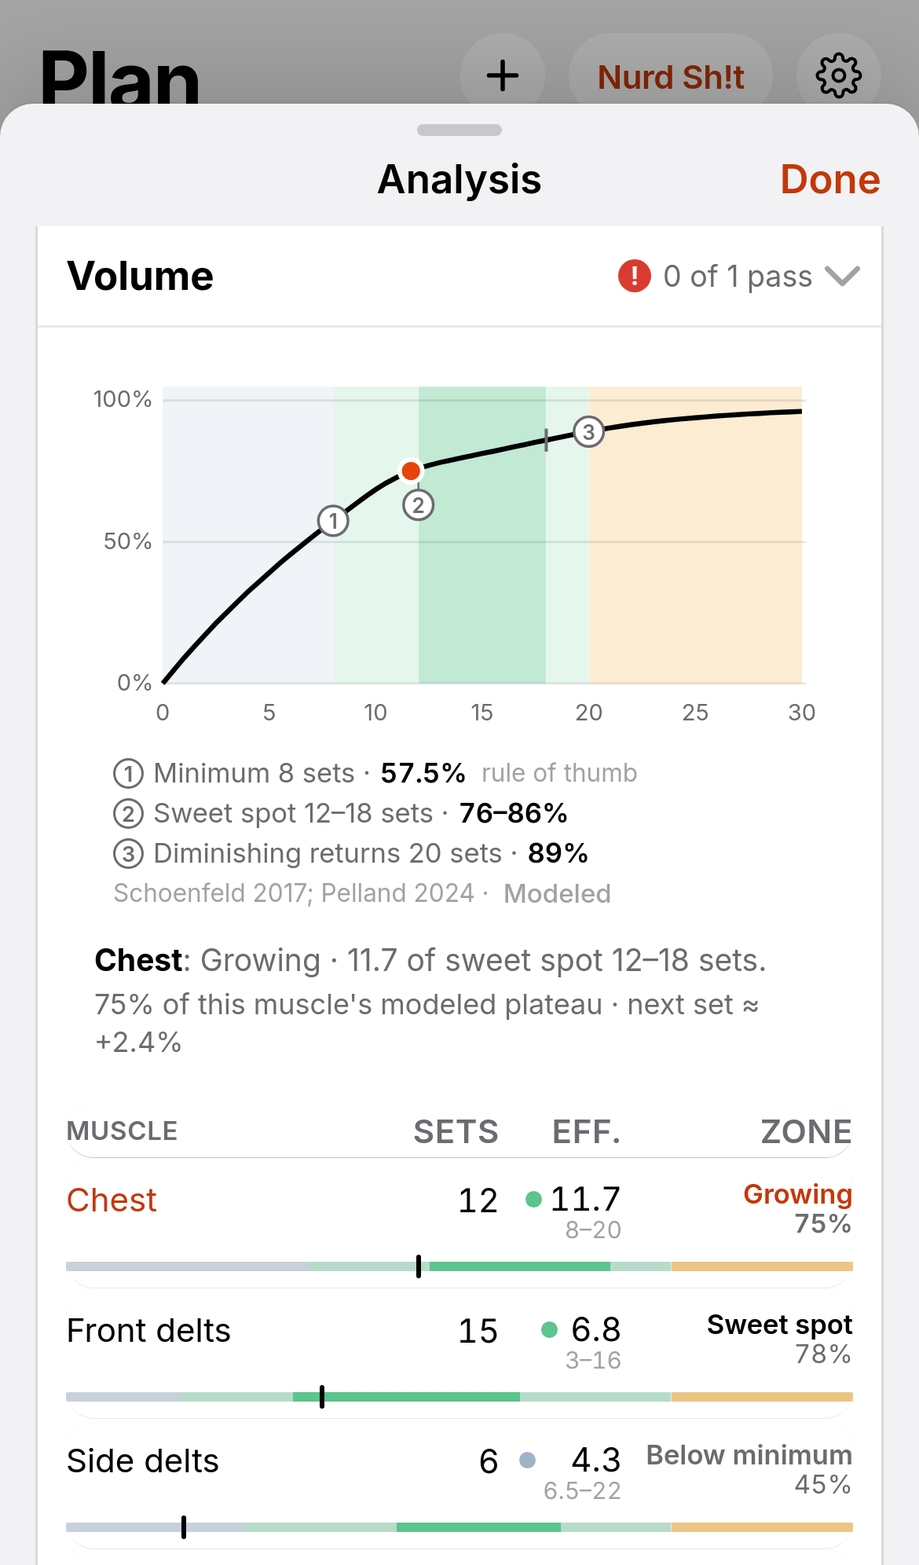
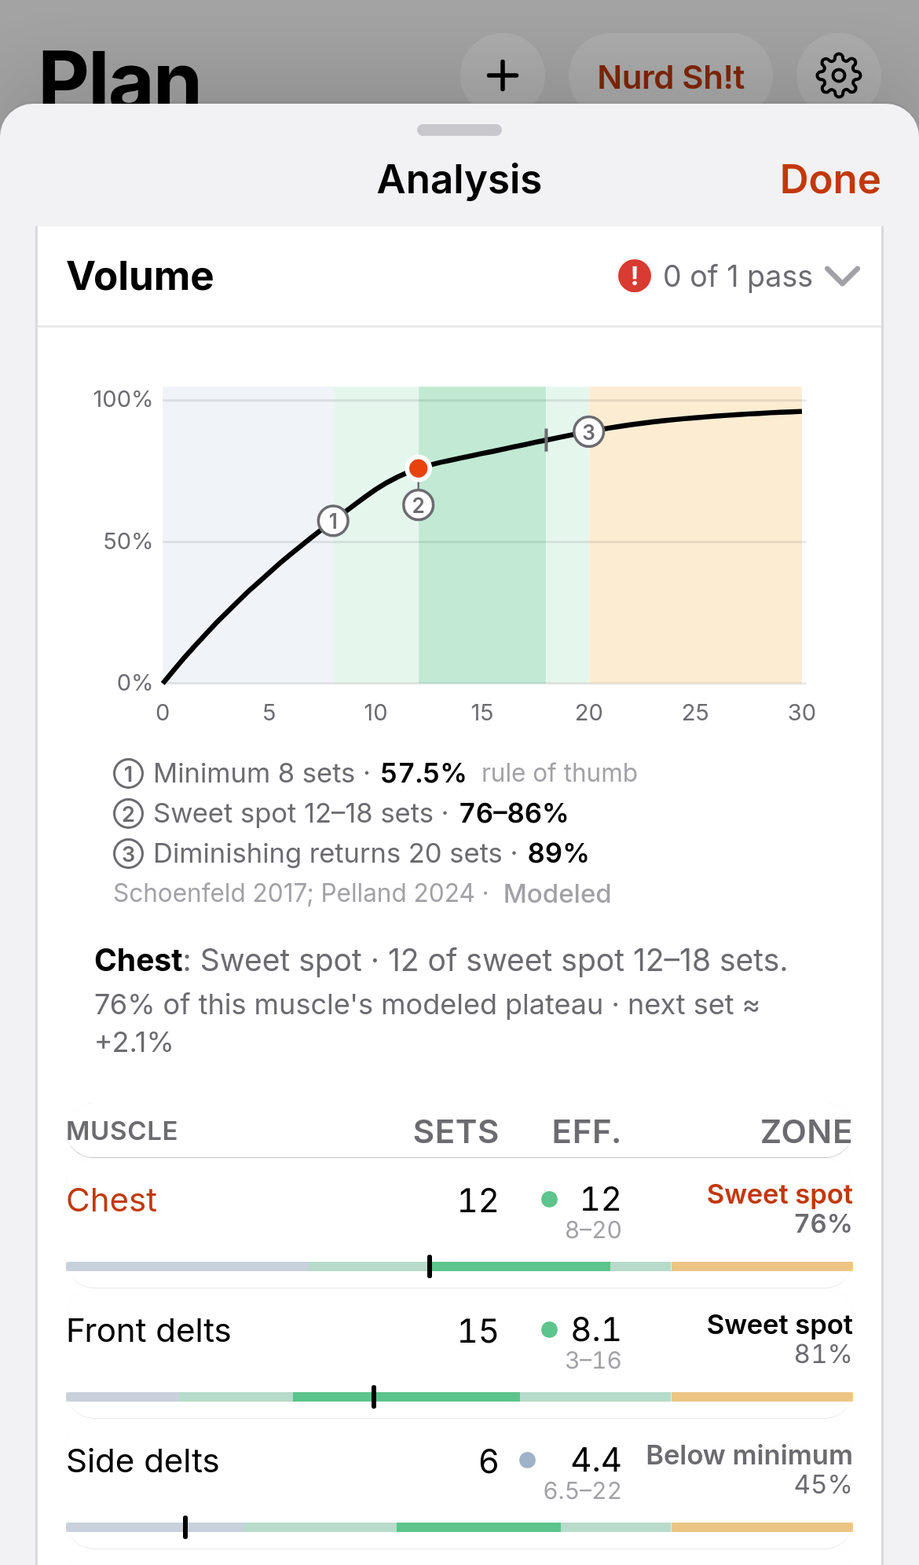
Storyboard vol9: face-value weekly volume (no per-set decay or cap in credited sets), session-efficiency info note past max(1+c,6), drop 12 vs 6+6 comparison

diff --git a/storyboard/logic/progcheck.js b/storyboard/logic/progcheck.js
@@ -49,6 +49,10 @@ const perSet=dt=>!!(dt.VM&&dt.VM.curve.session_discount&&dt.VM.curve.session_dis
 // CUR = the level of the last check/analytics call, used when a caller passes no level.
 let CUR='intermediate';const setLevel=l=>{if(l)CUR=l};
 const sdRule=dt=>((dt.rules&&dt.rules.rules)||[]).find(r=>r.id==='session_dose')||{};
+// vol9 (Mr Dude via CoS, supersedes the per-set credit discount): weekly volume = effective sets at face value (RIR /
+// secondary / minor multipliers kept). The per-set decay only feeds the informational session-efficiency note (session_dose
+// heavy) and the per-workout curve; it never changes a weekly number, zone, colour or %. Set FACE=false to restore vol8i.
+const FACE=true;
 const psC=(dt,m,lv)=>{const L=lv||CUR,cb=sdRule(dt).c_by_level||(dt.VM.session||{}).c_by_level;return (cb&&cb[L]&&cb[L][m])||(((dt.VM.session||{}).per_muscle||{})[m]||{}).c};
 // 'too heavy' for one workout = max(1 + c, heavy_floor_sets) (vol8i); 1 + c alone is the half-value point
 const heavyLim=(dt,m,lv)=>{const c=psC(dt,m,lv);return c?Math.max(1+c,sdRule(dt).heavy_floor_sets||0):null};
@@ -99,7 +103,7 @@ function slotCounts(dt,days){const {PJ}=ctx(dt),c={};for(const k in PJ.slots)c[k
   for(const d of days)for(const t of d.tiles){const e=dt.EX[t.id],hit=new Set();for(const s of e.patterns||[]){if(PJ.slots[s].kind==='compound'&&e.type==='isolation')continue;hit.add(s);(PJ.slots[s].counts_toward||[]).forEach(x=>hit.add(x))}hit.forEach(s=>c[s]+=1)}return c}
 function patternFlags(dt,days,level){const {PJ}=ctx(dt);if(!days.some(d=>d.tiles.length))return [];const c=slotCounts(dt,days),out=[];
   for(const [s,mn] of Object.entries(PJ.weekly_min_by_level[level])){if(mn<=0||c[s]>=mn)continue;out.push([c[s]===0&&PJ.required.includes(s)?'warn':'info','pattern_gap',s,c[s],mn])}return out}
-function col(dt,m,x,level){const {T,LF}=ctx(dt),a=pyR(T[m].min*LF[level]*2)/2,b=T[m].max;if(dt.VM&&!exactWarn(dt))x=r1(x);if(a<=x&&x<=b)return 'G';if((a-2<=x&&x<a)||(b<x&&x<=b*1.25))return 'A';return 'R'}
+function col(dt,m,x,level){const {T,LF}=ctx(dt),a=pyR(T[m].min*LF[level]*2)/2,b=T[m].max;if(dt.VM&&FACE)x=Math.round(x*100)/100;else if(dt.VM&&!exactWarn(dt))x=r1(x);if(a<=x&&x<=b)return 'G';if((a-2<=x&&x<a)||(b<x&&x<=b*1.25))return 'A';return 'R'}
 // days: [{day:'mon', tiles:[{id,sets}]}] (training days only, any order). Returns [flags, week]
 function check(dt,days,level){setLevel(level);const {R,RU,T,S,HEAVY}=ctx(dt),PAT=dt.PAT,f=[],week={},freq={},rawW={};for(const m in T){week[m]=0;freq[m]=0}
   let push=0,pull=0,spw=0;const byday={};days.forEach(d=>byday[d.day]=d);const HS=new Set(R.heavy_squats),HH=new Set(R.heavy_hinges);
@@ -112,7 +116,7 @@ function check(dt,days,level){setLevel(level);const {R,RU,T,S,HEAVY}=ctx(dt),PAT
       if(R.push_patterns.includes(p))push+=t.sets;if(R.pull_patterns.includes(p))pull+=t.sets}
     for(const [p,c] of pc){if(c<2)continue;const pv=eff(dt,d.tiles.filter(t=>(PAT[t.id]??null)===p));const over=Object.keys(pv).filter(m=>pv[m]>RU.redundant_pattern.threshold);
       if(over.length)f.push(['warn','redundant_pattern',d.day,p,c,over[0],pyR(pv[over[0]],1)])}
-    const v=eff(dt,d.tiles);for(const m in v){const x=v[m];week[m]+=dt.VM?sessCredit(dt,m,x):x;rawW[m]=(rawW[m]||0)+x;   // qc3009: weekly totals use the per-session credit (JS diverges from Coach's Python here, accepted)
+    const v=eff(dt,d.tiles);for(const m in v){const x=v[m];week[m]+=dt.VM&&!FACE?sessCredit(dt,m,x):x;rawW[m]=(rawW[m]||0)+x;   // qc3009: weekly totals use the per-session credit (JS diverges from Coach's Python here, accepted)
       if(x>=2)freq[m]+=1;if(x>10)f.push(['warn','junk_volume_session',d.day,m,pyR(x,1)])}
     const ids=new Set(d.tiles.map(t=>t.id));if(level==='beginner'&&[...ids].some(i=>HS.has(i))&&[...ids].some(i=>HH.has(i)))f.push([RU.beginner_squat_and_deadlift.severity||'warn','beginner_squat_and_deadlift',d.day])} // r2fix: severity from rules[]
   for(let i=0;i<6;i++){const dd=ORDER[i],a=byday[dd],b=byday[ORDER[i+1]];if(!(a&&b))continue;
@@ -124,7 +128,7 @@ function check(dt,days,level){setLevel(level);const {R,RU,T,S,HEAVY}=ctx(dt),PAT
   const all=new Set(days.flatMap(d=>d.tiles.map(t=>t.id)));
   for(const [m,ids] of Object.entries(R.stretch_biased))if(!ids.some(i=>all.has(i)))f.push([(RU.missing_stretch.check_muscles||[]).includes(m)?'warn':'info','missing_stretch',m]); // r2fix: stretch_check muscles warn
   for(const m of R.frequency_muscles)if(freq[m]<2&&days.length>=2)f.push(['info','low_frequency',m,freq[m]]);
-  if(perSet(dt)){for(const m in week)week[m]=Math.round(capW(dt,m,week[m],rawW[m]||0)*100)/100;f.push(...flags8(dt,days,level))}   // vol8b: weekly totals = x_equiv; CoS: zones/colours/warnings on this shown value
+  if(perSet(dt)){for(const m in week)week[m]=Math.round((FACE?(rawW[m]||0):capW(dt,m,week[m],rawW[m]||0))*100)/100;f.push(...flags8(dt,days,level))}   // vol8b: weekly totals = x_equiv; CoS: zones/colours/warnings on this shown value
   for(const m in week)if(col(dt,m,week[m],level)==='R')f.push(['warn','weekly_volume',m,pyR(week[m],1)]);
   f.push(...patternFlags(dt,days,level));return [f,week]}
 // ---------------- fixes (check_program.py v18) ----------------
@@ -258,7 +262,7 @@ function message(dt,f,days,level){const {R,RU,PJ}=ctx(dt),DN=R.day_names,id=f[1]
   if(id==='session_length'){const sp=sessP(dt,level);P.warn_min=sp.warn_min;P.info_min=sp.info_min;P.level=level} // vol3: messages carry {warn_min}/{info_min} from by_level[level]
   // vol8 flags: variants, {gap} in days, {ready} as a range, {limit} from the per-set curve (never exact hours)
   const dys=h=>{const v=h/24;return `${+v.toFixed(1)} day${v===1?'':'s'}`};
-  if(id==='session_dose'){P.limit=+(+heavyLim(dt,f[3])).toFixed(1);P.sets=+(+P.sets).toFixed(1);return fmtPy(f[4]==='heavy'?r.message_heavy:r.message_light,P)}
+  if(id==='session_dose'){P.limit=+(+heavyLim(dt,f[3])).toFixed(1);P.sets=+(+P.sets).toFixed(1);if(f[4]==='heavy'&&FACE)return `${P.muscle} gets ${fmtN(P.sets)} effective sets on ${P.day}, past about ${fmtN(P.limit)} for one session. Returns drop late in a long session for this muscle. Try splitting some sets onto another day, trimming a set or two, or swapping in a fresher exercise. This note doesn't change your weekly count.`;return fmtPy(f[4]==='heavy'?r.message_heavy:r.message_light,P)}
   if(id==='recovery_gap_long'){P.gap=dys(f[5]);return fmtPy(f[3]===f[4]&&r.message_once?r.message_once:r.message,P)}
   if(id==='recovery_overlap'){const R8=r;if(f[3]==='streak'){P.n=f[6];return fmtPy(r.message_streak,P)}P.gap=dys(f[6]);P.ready=f[7]?(h=>{h=h/(R8.early_frac_of_lower*0.8);if(h<20)return 'about a day';const lo=Math.floor(h*0.8/12)/2,hi=Math.ceil(h*1.2/12)/2;return (dt.VM.recovery.display.format||'about {lo}–{hi} days').replace('{lo}',String(lo)).replace('{hi}',String(hi))})(f[7]):'';return fmtPy(r.message_early,P)}
   let msg=r.message;if(id==='low_frequency'&&f[3]===0&&r.message_indirect_only)msg=r.message_indirect_only;else if(id==='spinal_load_week')msg=r.message_week||msg;else if(f[0]==='info'&&r.message_info)msg=r.message_info;
@@ -269,7 +273,7 @@ function shortLabel(dt,f){const id=f[1],r=dt.rules.rules.find(x=>x.id===RULE_OF(
   if(id==='spinal_load_session')k='session';else if(id==='spinal_load_week')k='week';
   else if(id==='push_pull_imbalance'&&(f[2]===0||f[2]===99))k=f[2]?'no_push':'no_pull';
   else if(id==='low_frequency'&&f[3]===0&&r.message_indirect_only)k='indirect_only';
-  else if(id==='session_dose')k=f[4];else if(id==='recovery_overlap')k=f[3];
+  else if(id==='session_dose'){if(f[4]==='heavy'&&FACE)return 'Session efficiency';k=f[4]}else if(id==='recovery_overlap')k=f[3];
   else if(id==='weekly_volume'){const T=ctx(dt).T[f[2]];k=T&&f[3]>T.max?'over':'under'}
   else if(f[0]==='info'&&r.severity!=='info')k='info';
   return (k&&V[k])||r.short_label||id}
@@ -282,8 +286,8 @@ function checks(dt,days,level){const [fl,week]=check(dt,days,level),rules=dt.rul
 function analytics(dt,days,level){setLevel(level);const TT=dt.targets,C=TT.curve,A=TT.analytics,{T,LF,RU,HEAVY}=ctx(dt),MUS=Object.keys(T),VM=!!dt.VM;
   const kOf=m=>(C.k_by_muscle&&C.k_by_muscle[m]&&C.k_by_muscle[m][level])||C.k[level],Sx=(x,k)=>1-Math.exp(-x/k),SD=C.session_discount,disc=(v,m)=>VM?sessCredit(dt,m,v):Math.min(v,SD.cap)+Math.max(0,v-SD.cap)*SD.factor;
   const perDay=days.map(d=>eff(dt,d.tiles)),muscles={};
-  for(const m of MUS){const rawx=perDay.reduce((a,v)=>a+v[m],0),xd=perDay.reduce((a,v)=>a+disc(v[m],m),0),x=VM&&perSet(dt)?capW(dt,m,xd,rawx):xd,freq=perDay.filter(v=>v[m]>=A.frequency_min_effective).length;
-    if(VM){const z=zones(dt,m,level);const xz=VM&&perSet(dt)?Math.round(x*100)/100:x;muscles[m]={raw:shown(dt,m,level,z,xz),raw_exact:x,raw_sets:rawx,x_dec:xd,x,zones:z,zone:zoneOf(z,xz),stim:stim(dt,m,level,x),next:stim(dt,m,level,x+1)-stim(dt,m,level,x),min:z.min,max:z.diminishing,freq};continue}
+  for(const m of MUS){const rawx=perDay.reduce((a,v)=>a+v[m],0),xd=perDay.reduce((a,v)=>a+disc(v[m],m),0),x=VM&&FACE?rawx:VM&&perSet(dt)?capW(dt,m,xd,rawx):xd,freq=perDay.filter(v=>v[m]>=A.frequency_min_effective).length;
+    if(VM){const z=zones(dt,m,level);const xz=VM&&(FACE||perSet(dt))?Math.round(x*100)/100:x;muscles[m]={raw:shown(dt,m,level,z,xz),raw_exact:x,raw_sets:rawx,x_dec:xd,x,zones:z,zone:zoneOf(z,xz),stim:stim(dt,m,level,x),next:stim(dt,m,level,x+1)-stim(dt,m,level,x),min:z.min,max:z.diminishing,freq};continue}
     const k=kOf(m),min=pyR(T[m].min*LF[level]*2)/2;
     muscles[m]={raw:rawx,x,k,stim:Sx(x,k),next:Sx(x+1,k)-Sx(x,k),min,max:T[m].max,freq}}
   const fat=e=>e.fatigue!=null?e.fatigue:(e.type==='isolation'?.8:1.2);
@@ -291,7 +295,8 @@ function analytics(dt,days,level){setLevel(level);const TT=dt.targets,C=TT.curve
   return {muscles,day,weekSets:days.reduce((a,d)=>a+total(d),0),weekMinutes:day.reduce((a,d)=>a+d.minutes,0),weekCost:day.reduce((a,d)=>a+d.cost,0),
     spinal:{week:day.reduce((a,d)=>a+d.spinal,0),week_max:RU.spinal_load.week_warn_above[level],session_max:RU.spinal_load.session_warn_above[level]},disclaimer:VM?dt.VM.disclaimer:A.disclaimer,curveModel:VM?dt.VM.curve.reads_as:C.model}}
 function anchors(dt,m,level){const CV=dt.VM.curve||{},P=(CV.per_muscle||{})[m];if(!P)return null;const A=(P.anchors_by_level&&P.anchors_by_level[level])||P.anchors;if(!A)return null;const lm=P.anchors_by_level?A.min:((P.level_min_pct||{})[level]||A.min);return {min:lm,sweet_low:A.sweet_low,sweet_high:A.sweet_high,dim:A.dim,basis:P.basis,ev:(P.min_evidence||{}).tag||null,fallback:(P.concave_fallback||{})[level]||null}}
-const API={anchors,heavyLim,setLevel,check,fixes,evaluate,message,checks,analytics,sessionMinutes,eff,credit,sessCredit,sessZones,perSet,gPS,xEquiv,sessZone8,capW,loadPoints,recHours,flags8,effortOf,axialOf,zones,stim,zoneOf,sessP,r05,r1,dRound,shown,flagKey,ORDER,shortLabel,ruleLabel,
+const fmtN=v=>{const n=+(+v).toFixed(1);return String(n)};
+const API={FACE,anchors,heavyLim,setLevel,check,fixes,evaluate,message,checks,analytics,sessionMinutes,eff,credit,sessCredit,sessZones,perSet,gPS,xEquiv,sessZone8,capW,loadPoints,recHours,flags8,effortOf,axialOf,zones,stim,zoneOf,sessP,r05,r1,dRound,shown,flagKey,ORDER,shortLabel,ruleLabel,
   // internals reused by logic/analysis.js and logic/progress.js (same functions, so the ports cannot drift)
   _x:{gAddSets,gAddExercise,gReduceSets,prev,nonin,_day,load,col,RULE_OF,total,ctx,clone,cmpT,sortBy,fmtPy}};
 if(typeof module!=='undefined'&&module.exports)module.exports=API;else root.PCHECK=API;

diff --git a/storyboard/board.js b/storyboard/board.js
@@ -445,23 +445,21 @@ function renderAnalysis(){if(!AN)return;const dt=RD(),{A,C,d}=stats(),R=dt.rules
     const yt=[0,Math.round(YM/2),YM],dd=d.map(D=>({day:D.day,s:PC.eff(dt,D.tiles)[cm]||0})).filter(o=>o.s>0);
     const svg=`<svg class="ancurve pwc" viewBox="0 0 ${W} ${H}" data-m="${cm}"><line x1="${px(0)}" y1="${py(0)}" x2="${px(Math.min(N,YM))}" y2="${py(Math.min(N,YM))}" class="pwid"/>${[0,4,8,12,16].map(q=>`<text x="${px(q)}" y="${H-10}" text-anchor="middle">${q}</text>`).join('')}${yt.map(q=>`<text x="26" y="${py(q)+3}" text-anchor="end">${q}</text>`).join('')}
       <path d="${pth}" class="cv"/>${dd.map(o=>{const q=Math.min(N,o.s);return `<circle cx="${px(q)}" cy="${py(g(q))}" r="4.5" class="dot"/><text x="${px(q)}" y="${py(g(q))-8}" text-anchor="middle" class="bl">${WD[DAYS.indexOf(o.day)]}</text>`}).join('')}</svg>`;
-    const over=[];d.forEach(D=>{const E=PC.eff(dt,D.tiles);for(const [m,v] of Object.entries(E)){const z=PC.sessZones(dt,m);if(z&&v>z.useful+0.05)over.push({m,day:D.day,v,c:PC.sessCredit(dt,m,v)})}});over.sort((a,b)=>(b.v-b.c)-(a.v-a.c));
-    const n=12,XE=(x,raw)=>Z.perSet?PC.capW(dt,cm,x,raw):x,one=XE(g(n),n),two=XE(2*g(n/2),n),zz=PC.zones(dt,cm,lv),row=(lab,x)=>{const sh=PC.shown(dt,cm,lv,zz,x);return `<div class="pwr"><span>${lab}</span><span class="num">counts as ${nfmt(sh)} · ${ZL(PC.zoneOf(zz,x))} ${Math.round(PC.stim(dt,cm,lv,x)*100)}%</span></div>`};
+    const over=[];d.forEach(D=>{const E=PC.eff(dt,D.tiles);for(const [m,v] of Object.entries(E)){const z=PC.sessZones(dt,m);if(z&&z.lim&&v>z.lim+1e-9)over.push({m,day:D.day,v,c:PC.sessCredit(dt,m,v)})}});   // vol9: session-efficiency note only past 'too heavy' = max(1 + c, 6)over.sort((a,b)=>(b.v-b.c)-(a.v-a.c));
     const SRC=((dt.VM.sources||{}).remmert2025session)||null;
     return `<div class="agfx pwv" data-metric="per_workout"><div class="ash"><span>Per workout: ${MLB(cm)}</span><span class="evl" data-ev="modeled">Modeled</span><span class="ashv num">too heavy past ${nfmt(Z.lim)} sets</span></div>
       <div class="curvec card curve">${svg}<div class="pwleg"><span><i class="pwk"></i>Workout stimulus</span><span><i class="pwk2"></i>If every set counted fully</span><span class="sub">sets in one workout</span></div>
       ${SRC?`<p class="pwsrc"><span class="evl" data-ev="modeled">Modeled</span> Curve shape from ${SRC.cite.split('(2025)')[0].split(',')[0]} et al. (2025), <a href="${SRC.url}" target="_blank" rel="noopener">per-session volume meta-regression</a>, a preprint (not peer-reviewed); the per-set rate is fitted to its anchors.</p>`:''}</div>
-      ${dd.length?`<div class="pwdays">${dd.map(o=>`<span><b>${WD[DAYS.indexOf(o.day)]}</b> ${nfmt(o.s)} sets → <span class="num">${nfmt(g(o.s))}</span></span>`).join('')}</div>`:''}
-      <div class="pwcase" data-m="${cm}" data-one="${one.toFixed(2)}" data-two="${two.toFixed(2)}">${row(`${n} sets in one workout`,one)}${row(`${n/2} + ${n/2} on two days`,two)}</div>
-      ${over.length?`<div class="pwover"><div class="ash"><span>Past the useful point this week</span><span class="ashv num">${over.length}</span></div>${over.slice(0,4).map(o=>`<div class="pwr">${mlk(o.m,'sets')}<span class="num">${WD[DAYS.indexOf(o.day)]} · ${nfmt(o.v)} sets → ${nfmt(o.c)}</span></div>`).join('')}</div>`:''}
-      ${wCards()}<p class="foot">Each extra set in the same workout is worth a bit less. Past ${nfmt(Z.lim)} sets in one workout counts as too heavy: each extra set earns under half of set 1. Resting until the next day starts the count again, so two days never score below one long workout. Tap a muscle in the table to chart it here.</p></div>`};
+      ${dd.length?`<div class="pwdays">${dd.map(o=>`<span><b>${WD[DAYS.indexOf(o.day)]}</b> <span class="num">${nfmt(o.s)}</span> sets</span>`).join('')}</div>`:''}
+      ${over.length?`<div class="pwover"><div class="ash"><span>Session efficiency</span><span class="evl" data-ev="info">Info</span><span class="ashv num">${over.length}</span></div>${over.slice(0,4).map(o=>`<div class="pwr">${mlk(o.m,'sets')}<span class="num">${WD[DAYS.indexOf(o.day)]} · ${nfmt(o.v)} sets in one session</span></div>`).join('')}<p class="pwtip">Returns drop late in a long session for these muscles. Try splitting some sets onto another day, trimming a set or two, or swapping in a fresher exercise.</p></div>`:''}
+      ${wCards()}<p class="foot">For session efficiency only: your weekly count takes every effective set at face value, so 12 sets in one day count as 12. Within one session each extra set gives a bit less, and past ${nfmt(Z.lim)} sets for this muscle returns drop late in the session. Tap a muscle in the table to chart it here.</p></div>`};
   // vol8 §10.7 per-workout cards: fatigue index bar (0-180, tick at 100 = typical upper day, tier bands) + up to 6 muscle bars
   // (length = effective sets that day, colour = workout zone, "+N% of weekly plateau", ready-in range). Numbers one decimal; never exact hours.
   const WK=dt.VM&&PC.perSet(dt)?dt.VM.workout:null;
   const wCards=()=>{if(!WK)return '';const AM=A.muscles,REF=WK.fatigue.reference.points,TI8=WK.fatigue.tiers,ZC={below_dose:'var(--line-strong)',useful:'var(--vol-in-range)',diminishing:'var(--vol-amber)',low_return:'var(--vol-red,#d4483b)'};
     const cards=d.filter(D=>D.tiles.length).map(D=>{const lp=PC.loadPoints(dt,D.tiles),li=Math.round(100*lp/REF),tier=TI8.find(t=>li>=t.from&&(t.to==null||li<t.to))||TI8[TI8.length-1],E=PC.eff(dt,D.tiles),H=ANL.sessionHours(dt,D.tiles,lv),hs=D.tiles.reduce((a,t)=>a+t.sets,0),mn=Math.round(PC.sessionMinutes(dt,D.tiles,lv));
       const ms=Object.entries(E).filter(([,v])=>v>=0.5).sort((a,b)=>b[1]-a[1]),top=ms.slice(0,6),mx=Math.max(6,...top.map(x=>x[1])),P180=v=>Math.min(100,v/180*100).toFixed(1);
-      const pay=m=>{const v=AM[m];return v&&v.x_dec?100*PC.stim(dt,m,lv,v.x)*PC.sessCredit(dt,m,E[m])/v.x_dec:0};
+      const pay=m=>{const v=AM[m];if(PC.FACE)return v&&v.raw_sets?100*PC.stim(dt,m,lv,v.x)*E[m]/v.raw_sets:0;return v&&v.x_dec?100*PC.stim(dt,m,lv,v.x)*PC.sessCredit(dt,m,E[m])/v.x_dec:0};   // vol9: face-value share
       return `<div class="wcard" data-day="${D.day}" data-li="${li}"><div class="wch"><b>${WDL[DAYS.indexOf(D.day)]}</b><span class="num">${hs} hard sets · about ${mn} min</span></div>
         <div class="wfat"><span class="wfl">Fatigue</span><span class="wfv num"><b>${li}</b> · ${tier.id.replace('_',' ')}</span></div>
         <div class="wfbar" aria-label="Fatigue ${li}, 100 = a typical upper-body day">${TI8.map(t=>`<i class="wft ${t.id}" style="left:${P180(t.from)}%;width:${(P180(t.to==null?180:t.to)-P180(t.from)).toFixed(1)}%"></i>`).join('')}<b style="width:${P180(li)}%"></b><em style="left:${P180(100)}%"></em></div>

diff --git a/storyboard/logic/muscledive.js b/storyboard/logic/muscledive.js
@@ -11,7 +11,7 @@ const pyR=RANK.pyRound,_r=(x,n=4)=>pyR(x,n),ORDER=PC.ORDER,DEFAULT_GOALS=['muscl
 const band=(dt,m,level)=>{const T=dt.targets.targets[m],LF=dt.targets.levelMinFactor;return [pyR(T.min*LF[level]*2)/2,T.max]};
 const S=(x,k)=>1-Math.exp(-x/k);
 function dayEff(dt,days,m){const o={};for(const d of days)if(d.tiles.length)o[d.day]=_r(PC.eff(dt,d.tiles)[m],4);return o}
-function curveX(dt,days,m){const sd=dt.targets.curve.session_discount;let x=0;for(const d of days){const v=d.tiles.length?PC.eff(dt,d.tiles)[m]:0;if(dt.VM){x+=PC.sessCredit(dt,m,v);continue}x+=v<=sd.cap?v:sd.cap+(v-sd.cap)*sd.factor}return x}
+function curveX(dt,days,m){const sd=dt.targets.curve.session_discount;let x=0;for(const d of days){const v=d.tiles.length?PC.eff(dt,d.tiles)[m]:0;if(dt.VM){x+=PC.FACE?v:PC.sessCredit(dt,m,v);continue}x+=v<=sd.cap?v:sd.cap+(v-sd.cap)*sd.factor}return x}
 function status(dt,m,x,level){const [lo]=band(dt,m,level),c=PC._x.col(dt,m,x,level);if(c==='G')return 'in_range';return c==='A'?(x<lo?'under':'over'):(x<lo?'far_under':'far_over')}
 // one muscle (or every muscle with m == null): {id, label, short_label, anchor, sets, curve, frequency, stretch, one_side_share,
 // recovery_cost, stimulus_per_fatigue, fatigue, contributors, suggestions:{apply, ranked_adds}}

diff --git a/storyboard/sb.css b/storyboard/sb.css
@@ -1620,3 +1620,4 @@ html[data-theme=dark] .pmom.gold .pm-txt .eyebrow{color:#FFD88F}
 .ancurve .anc line.anhi{stroke:var(--text-2);stroke-width:1.4}
 .ancl .anev{font-style:normal;font-size:10.5px;color:var(--text-3,#8a8a8a);margin-left:2px}
 .ancl .ansrc{flex-basis:100%;font-size:10.5px;color:var(--text-3,#8a8a8a);gap:6px}.ancl .ansrc .evl{margin-left:0}
+.pwtip{font-size:12.5px;color:var(--text-2);margin:4px 0 2px;line-height:1.35}

diff --git a/storyboard/ARCHITECTURE-web-storyboard.md b/storyboard/ARCHITECTURE-web-storyboard.md
@@ -534,3 +534,4 @@ The suite runs all three (`r3*` checks).
 - **Volume model vol8c (Oct 31, 2026, Coach / CoS):** targets.json and volume-model.json re-copied; splits.json HELD at 204cdfbc (CoS: Coach's 12 preset rebalances not taken). Weekly value = `PC.capW` = min(x_equiv, raw weekly effective sets); the % uses it exactly, zones/colours/weekly_volume warnings compare it rounded to 0.01 (check_program.py capped_week), and the shown number (`PC.shown`, one decimal, boundary-nudged) is the same value everywhere. Swap records: before/after stay raw (0.5 display), zones, `weekly_value_*` and crosses_below_min use the capped value. recovery_overlap early = [gap h, threshold h, short by h]. My average = per-set fatigue sum (type_base × axial × effort at the logged RIR), same scale as the benchmarks. With the held splits, 12 of 46 presets give weekly_volume warnings.
 - **Volume model vol8d + vol8e (Oct 31, 2026, Coach / CoS):** rules.json (f8af40b1), targets.json (7acd54bf) and volume-model.json (47d24358) re-copied for vol8d's softened per-set decay (c = 1.0 × heavy anchor, chest 10; session_dose heavy above 1 + c sets); splits.json copied at vol8e (344dc346: CoS-approved leg-extension 4→5 on PPL adv 3 Fri, PPLU adv 4 Thu, Arnold adv 3 Fri). Cap, 0.01 boundary rounding, % mapping and number/zone/colour agreement unchanged. References: workout-reference 261/261, volume-model-reference swaps 27/27, credit-at-n 304/304 (vol5_history not checked). 4 of 46 presets warn for real low volume (FB int 2, FB adv 2, UL int 2, torso-limbs int 2). CoS curve anchors: each muscle's weekly curve (board.js `curve()`) marks minimum, sweet spot start and diminishing returns start with numbered marks plus a legend row (`.ancl`) giving the stimulus % at each edge from `PC.stim` (same mapping as the curve), tagged Modeled; computed from Coach's model since the data has no official anchors field yet (targets.anchors is the legacy exponential-curve 60% note and is not used). Marks that would crowd a neighbour or the week's dot drop below the curve. Shots 81a, 81b, 81c-curve-anchors.
 - **Volume model vol8g–vol8i (Oct 31, 2026, Coach / CoS):** rules.json (b83c462a), targets.json (8e7c5d88) and volume-model.json (25b275fe) copied; splits unchanged (344dc346). Weekly curve = Coach's anchored per-muscle curve per level (`PC.stim`: curve.per_muscle[m].params_by_level[level]; log segment to min, quadratic pieces to D, exponential approach to the 97.9% plateau). Anchors come only from curve.per_muscle[m].anchors_by_level[level] (`PC.anchors`; no computed fallback), so each level's sweet-spot mark sits on that level's shaded band; concave_fallback values (advanced minimums) are shown as given. Decay c per level from rules session_dose.c_by_level (`psC`, level from the last check/analytics call); 'too heavy' = max(1 + c, heavy_floor_sets 6) (`PC.heavyLim`) drives the session_dose flag, its message and the per-workout wording. Weekly curve labels: three numbered marks (Minimum with a muted direct-study / rule-of-thumb note from min_evidence; Sweet spot as a range with a tick at its high edge; Diminishing returns), source line 'Schoenfeld 2017; Pelland 2024 · Modeled'. References: curve-anchors 825/825 (all levels, anchors and between values within 0.1), curve-log-vs-sqrt-chest 12/12 (active_by_level), workout-reference 261/261, swaps 27/27, credit-at-n 304/304. 4 of 46 presets warn (FB int 2, FB adv 2, UL int 2, torso-limbs int 2).
+- **vol9 face-value weekly volume (Nov 1, 2026, Mr Dude via CoS; supersedes the per-set credit discount):** weekly volume = effective sets at face value (RIR proximity, secondary and minor multipliers kept). `PC.FACE` (progcheck.js) switches off the per-set decay and the min(x_equiv, raw) cap in `check()` and `analytics()`, and `muscledive.curveX` sums face-value sets, so the Plan board colours, Analysis number, zone, colour and % all read the same undiscounted count (12 sets in one day read 12); `col()` compares the same 0.01-rounded value as `zoneOf` so the shown number and zone agree. The per-set decay stays only as information: the per-workout curve, and the session_dose heavy flag shown as 'Session efficiency' (info) when one muscle passes 'too heavy' = max(1 + c, 6) for the user's level (chest 14 / 21 / 31), app-side wording that never suggests adding sets and never changes the weekly number, zone, colour or %. The 12 vs 6+6 comparison was removed; per-day markers show sets only; workout-card payout is the face-value share. Fatigue and recovery (per-set) unchanged; My average stays on the per-set fatigue sum, the same scale as the typical-routine benchmarks. Coach's reference cases that encode the decay (board/swap muscle values, 12 vs 6+6, workout payout %) no longer match by design; fatigue, recovery and curve cases still do. 0 of 46 presets warn under face value. Data files unchanged.
